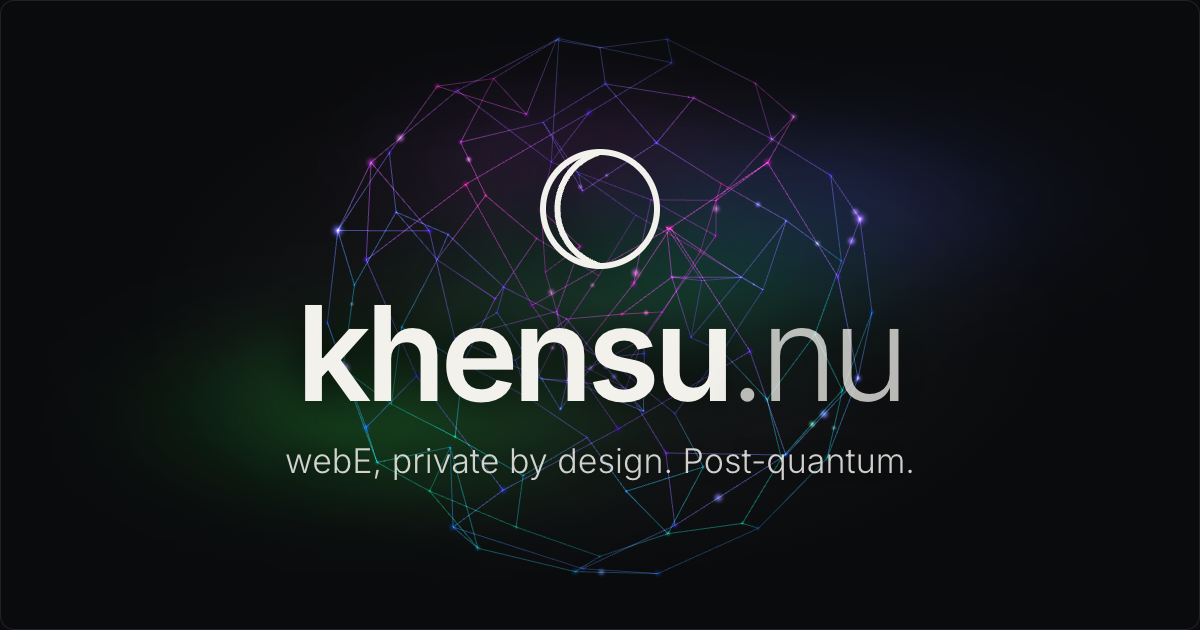
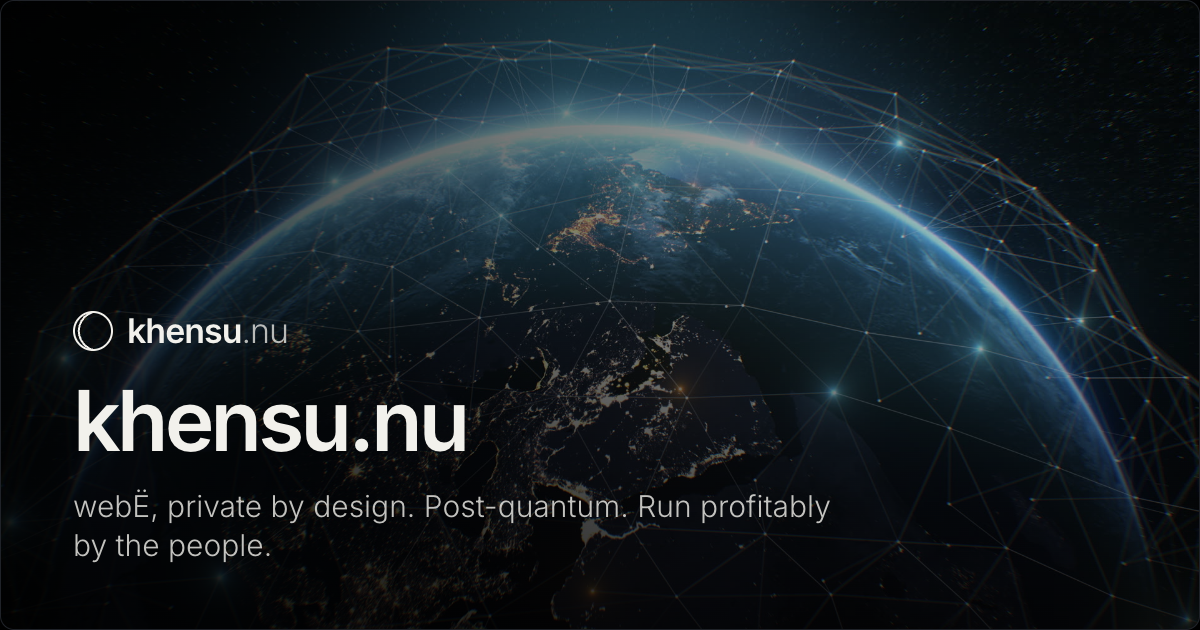
Buy: pay in full, expected to ship Q1 2027; share cards for every page with the Earth network and the brass shield

diff --git a/sites/khensu-nu/src/data/og.ts b/sites/khensu-nu/src/data/og.ts
@@ -1,0 +1,26 @@
+// Link-preview cards, one per page on khensu.nu and dev.khensu.nu. `tools/og.sh` screenshots /og/<slug>/ to
+// public/og/<slug>.jpg (1200 x 630). `bg` fills the card; `product` sits on the right instead.
+export type Card = { title: string; em?: string; line: string; bg?: string; product?: string; alt: string };
+
+export const CARDS: Record<string, Card> = {
+  home: { title: 'khensu.nu', line: 'webË, private by design. Post-quantum. Run profitably by the people.', bg: '/khensu/hero/earth.jpg', alt: 'The khensu.nu logo over Earth at night, wrapped in a glowing network' },
+  buy: { title: 'suñůlink.shield', em: 'Pre-order. Made in Morocco.', line: 'khensu.nu’s network-profitable, post-quantum encrypted stealth transceiver.', bg: '/khensu/hero/earth.jpg', product: '/khensu/shell/assembled_black_brass.png', alt: 'suñůlink.shield in brass on the back of an iPhone, over Earth wrapped in the khensu.nu network' },
+  shield: { title: 'suñůlink.shield', line: 'khensu.nu’s network-profitable, post-quantum encrypted stealth transceiver.', bg: '/khensu/hero/earth.jpg', product: '/khensu/shell/assembled_black_brass.png', alt: 'suñůlink.shield in brass on the back of an iPhone, over Earth wrapped in the khensu.nu network' },
+  media: { title: 'nu-media', em: 'Every number, measured.', line: 'Photos and video against JPEG, HEIC, H.264, HEVC and AV1.', bg: '/khensu/hero/earth.jpg', alt: 'The khensu.nu logo over Earth at night, wrapped in a glowing network' },
+  app: { title: 'khensu.nu', em: 'For iPhone, iPad and Mac.', line: 'Messages, calls, feeds and payments, post-quantum.', bg: '/khensu/hero/earth.jpg', alt: 'The khensu.nu logo over Earth at night' },
+  privacy: { title: 'Privacy', em: 'Nothing to collect.', line: 'No accounts on servers, no tracking, no data to sell.', bg: '/khensu/hero/earth.jpg', alt: 'The khensu.nu logo over Earth at night' },
+  'dev-index': { title: 'Developers', em: 'Build on webË.', line: 'Specs, repositories and the post-quantum stack behind khensu.nu.', bg: '/khensu/hero/earth.jpg', alt: 'khensu.nu developers' },
+  'dev-architecture': { title: 'Architecture', em: 'How khensu.nu works.', line: 'MLS with ML-KEM-1024, a mixnet, and a network run by people.', bg: '/khensu/hero/earth.jpg', alt: 'khensu.nu architecture' },
+  'dev-security': { title: 'Security', em: 'Post-quantum only.', line: 'ML-KEM-1024 and ML-DSA-87, with no classical fallback.', bg: '/khensu/hero/earth.jpg', alt: 'khensu.nu security' },
+  'dev-webe': { title: 'webË', em: 'A new network, alongside the internet.', line: 'Names, sites, feeds and post-quantum web contracts.', bg: '/khensu/hero/earth.jpg', alt: 'The webË specification' },
+  'dev-node': { title: 'Run a node', em: 'Get paid for real work.', line: 'Mac or Raspberry Pi 5: mixnet, mailbox and call relay.', bg: '/khensu/hero/earth.jpg', alt: 'Run a khensu.nu node' },
+  'dev-shell': { title: 'suñůlink.shield', em: 'Open hardware.', line: 'khensu.nu’s network-profitable, post-quantum encrypted stealth transceiver.', bg: '/khensu/hero/earth.jpg', product: '/khensu/shell/assembled_black_brass.png', alt: 'suñůlink.shield in brass over Earth wrapped in the khensu.nu network' },
+  'dev-repositories': { title: 'Repositories', em: 'Open source.', line: 'Apache-2.0 core, AGPL-3.0 apps, node and chain.', bg: '/khensu/hero/earth.jpg', alt: 'khensu.nu repositories and licences' },
+  'dev-contribute': { title: 'Contribute', em: 'Code and consensus.', line: 'Pull requests for code, governance for the network’s rules.', bg: '/khensu/hero/earth.jpg', alt: 'Contribute to khensu.nu' },
+};
+
+export const cardFor = (path: string, prefix = '') => {
+  const slug = prefix + (path.replace(/^\/|\/$/g, '') || 'index');
+  const key = slug === 'index' ? 'home' : slug;
+  return CARDS[key] ? key : prefix ? `${prefix}index` : 'home';
+};
